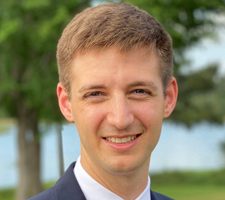
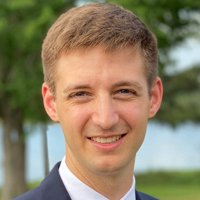
add future talks and fix Stefan's photo

diff --git a/src/seminar.md b/src/seminar.md
@@ -20,6 +20,10 @@ Fill in [this form](https://docs.google.com/forms/d/e/1FAIpQLScrJ9QT7v7abx2ELcET
 ##### *Bayesian Inversion of an Acoustic-Gravity Model for Predictive Tsunami Simulation*
 ##### [**9am PDT, January 10, 2023**](https://everytimezone.com/s/1d40d5d1)
 
+[<button type="button" class="btn btn-success">
+**WebEx**
+</button>](https://llnlfed.webex.com/meet/petrides1)
+
 **Abstract:** To improve tsunami preparedness, early-alert systems and real-time monitoring are essential. We use a novel approach for predictive tsunami modeling within the Bayesian inversion framework. This effort focuses on informing the immediate response to an occurring tsunami event using near-field data observation. Our forward model is based on a coupled acoustic-gravity model (e.g., Lotto and Dunham, Comput Geosci (2015) 19:327—340). Similar to other tsunami models, our forward model relies on transient boundary data describing the location and magnitude of the seafloor deformation. In a real-time scenario, these parameter fields must be inferred from a variety of measurements, including observations from pressure gauges mounted on the seafloor. One particular difficulty of this inference problem lies in the accurate inversion from sparse pressure data recorded in the near-field where strong hydroacoustic waves propagate in the compressible ocean; these acoustic waves complicate the task of estimating the hydrostatic pressure changes related to the forming surface gravity wave. Our space-time model is discretized with finite elements in space and finite differences in time. The forward model incurs a high computational complexity, since the pressure waves must be resolved in the 3D compressible ocean over a sufficiently long time span. Due to the infeasibility of rapidly solving the corresponding inverse problem for the fully discretized space-time operator, we discuss approaches for using compact representations of the parameter-to-observable map.
 
 ---
@@ -289,9 +293,48 @@ Additionally, one might have concerns about storage, post-processing (Will I be 
 
 &nbsp;
 
+#### Som Dutta (Utah State University)
+##### **February 07, 2023**
+
+&nbsp;
+
+#### Vikram Gavini (University of Michigan)
+##### **March 07, 2023**
+
+&nbsp;
+
+#### Joachim Schöberl (Vienna University of Technology)
+##### **March 28, 2023**
+
+&nbsp;
+
 #### Leszek F. Demkowicz (University of Texas at Austin)
-##### *TBD*
 ##### **April 25, 2023**
+
+&nbsp;
+
+#### Frank Giraldo (Naval Postgraduate School)
+##### **May 23, 2023**
+
+&nbsp;
+
+#### Freddie Witherden (Texas A&M)
+##### **June 20, 2023**
+
+&nbsp;
+
+#### Natasha Sharma (University of Texas at El Paso)
+##### **July 18, 2023**
+
+&nbsp;
+
+#### David Moxey (King’s College, London)
+##### **September 12, 2023**
+
+&nbsp;
+
+#### Ben Southworth (Los Alamos National Laboratory)
+##### **October 10, 2023**
 
 ---
 
